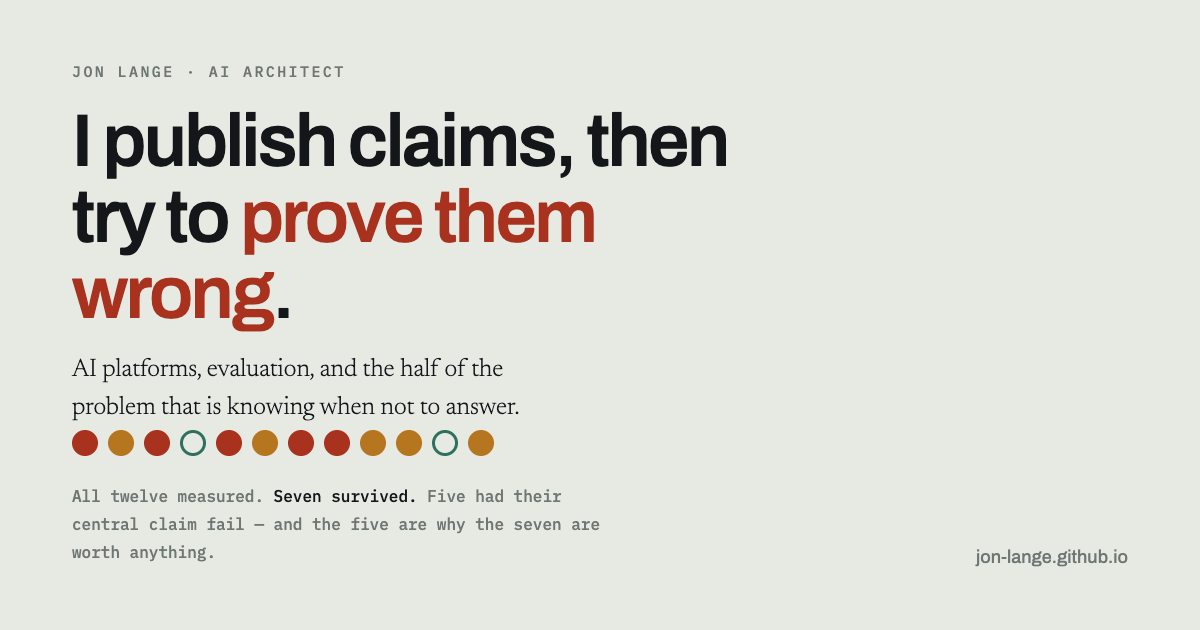
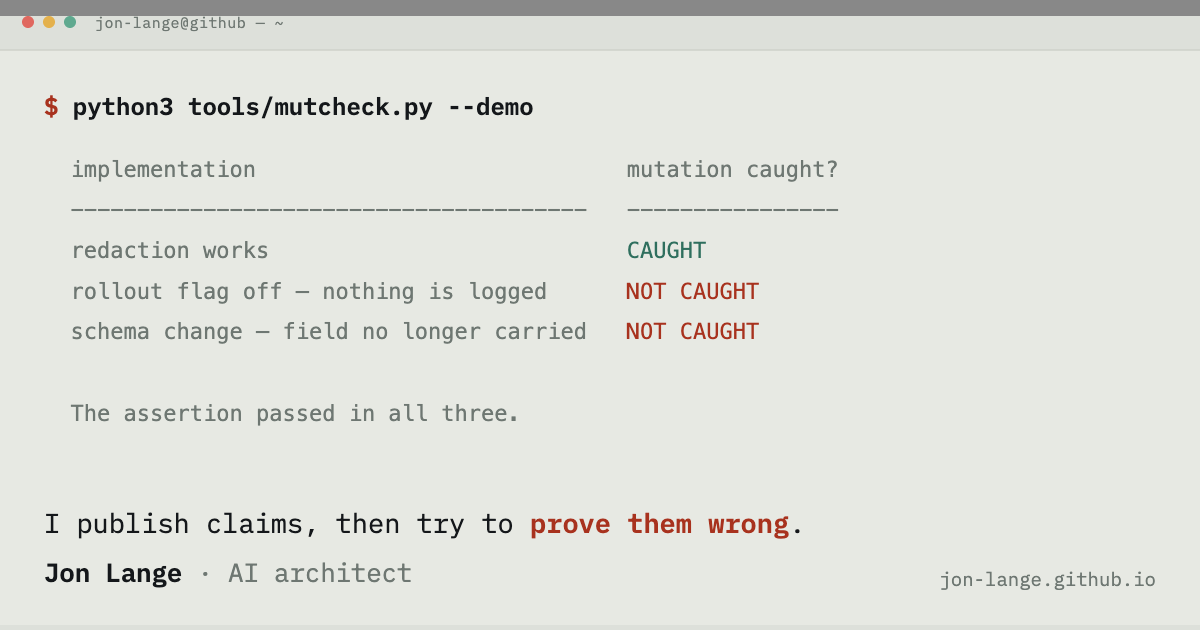
design: OG card is the mutcheck run, not a summary of it
The card now shows what the tool prints -- header and divider matching the
real output byte for byte, with only the trailing detail column trimmed to
fit. A card that paraphrases a terminal on a page arguing that output is
evidence is the wrong kind of approximation.

Claude-Session: https://claude.ai/code/session_01Sj8QYoUCq3vo5c4MxNzXqQ

diff --git a/index.html b/index.html
@@ -15,7 +15,7 @@
 <meta property="og:image" content="https://jon-lange.github.io/og.png">
 <meta property="og:image:width" content="1200">
 <meta property="og:image:height" content="630">
-<meta property="og:image:alt" content="I publish claims, then try to prove them wrong. Twelve dots showing each entry's verdict: five failed, five narrowed, two confirmed.">
+<meta property="og:image:alt" content="A terminal running python3 tools/mutcheck.py --demo. Three implementations of one redaction guard: CAUGHT, NOT CAUGHT, NOT CAUGHT. The assertion passed in all three.">
 <link rel="preconnect" href="https://fonts.googleapis.com">
 <link rel="preconnect" href="https://fonts.gstatic.com" crossorigin>
 <link href="https://fonts.googleapis.com/css2?family=IBM+Plex+Mono:ital,wght@0,400;0,500;0,600;1,400&display=swap" rel="stylesheet">

diff --git a/build.py b/build.py
@@ -146,7 +146,7 @@ TEMPLATE = """<!doctype html>
 <meta property="og:image" content="https://jon-lange.github.io/og.png">
 <meta property="og:image:width" content="1200">
 <meta property="og:image:height" content="630">
-<meta property="og:image:alt" content="I publish claims, then try to prove them wrong. Twelve dots showing each entry's verdict: five failed, five narrowed, two confirmed.">
+<meta property="og:image:alt" content="A terminal running python3 tools/mutcheck.py --demo. Three implementations of one redaction guard: CAUGHT, NOT CAUGHT, NOT CAUGHT. The assertion passed in all three.">
 <link rel="preconnect" href="https://fonts.googleapis.com">
 <link rel="preconnect" href="https://fonts.gstatic.com" crossorigin>
 <link href="https://fonts.googleapis.com/css2?family=IBM+Plex+Mono:ital,wght@0,400;0,500;0,600;1,400&display=swap" rel="stylesheet">
